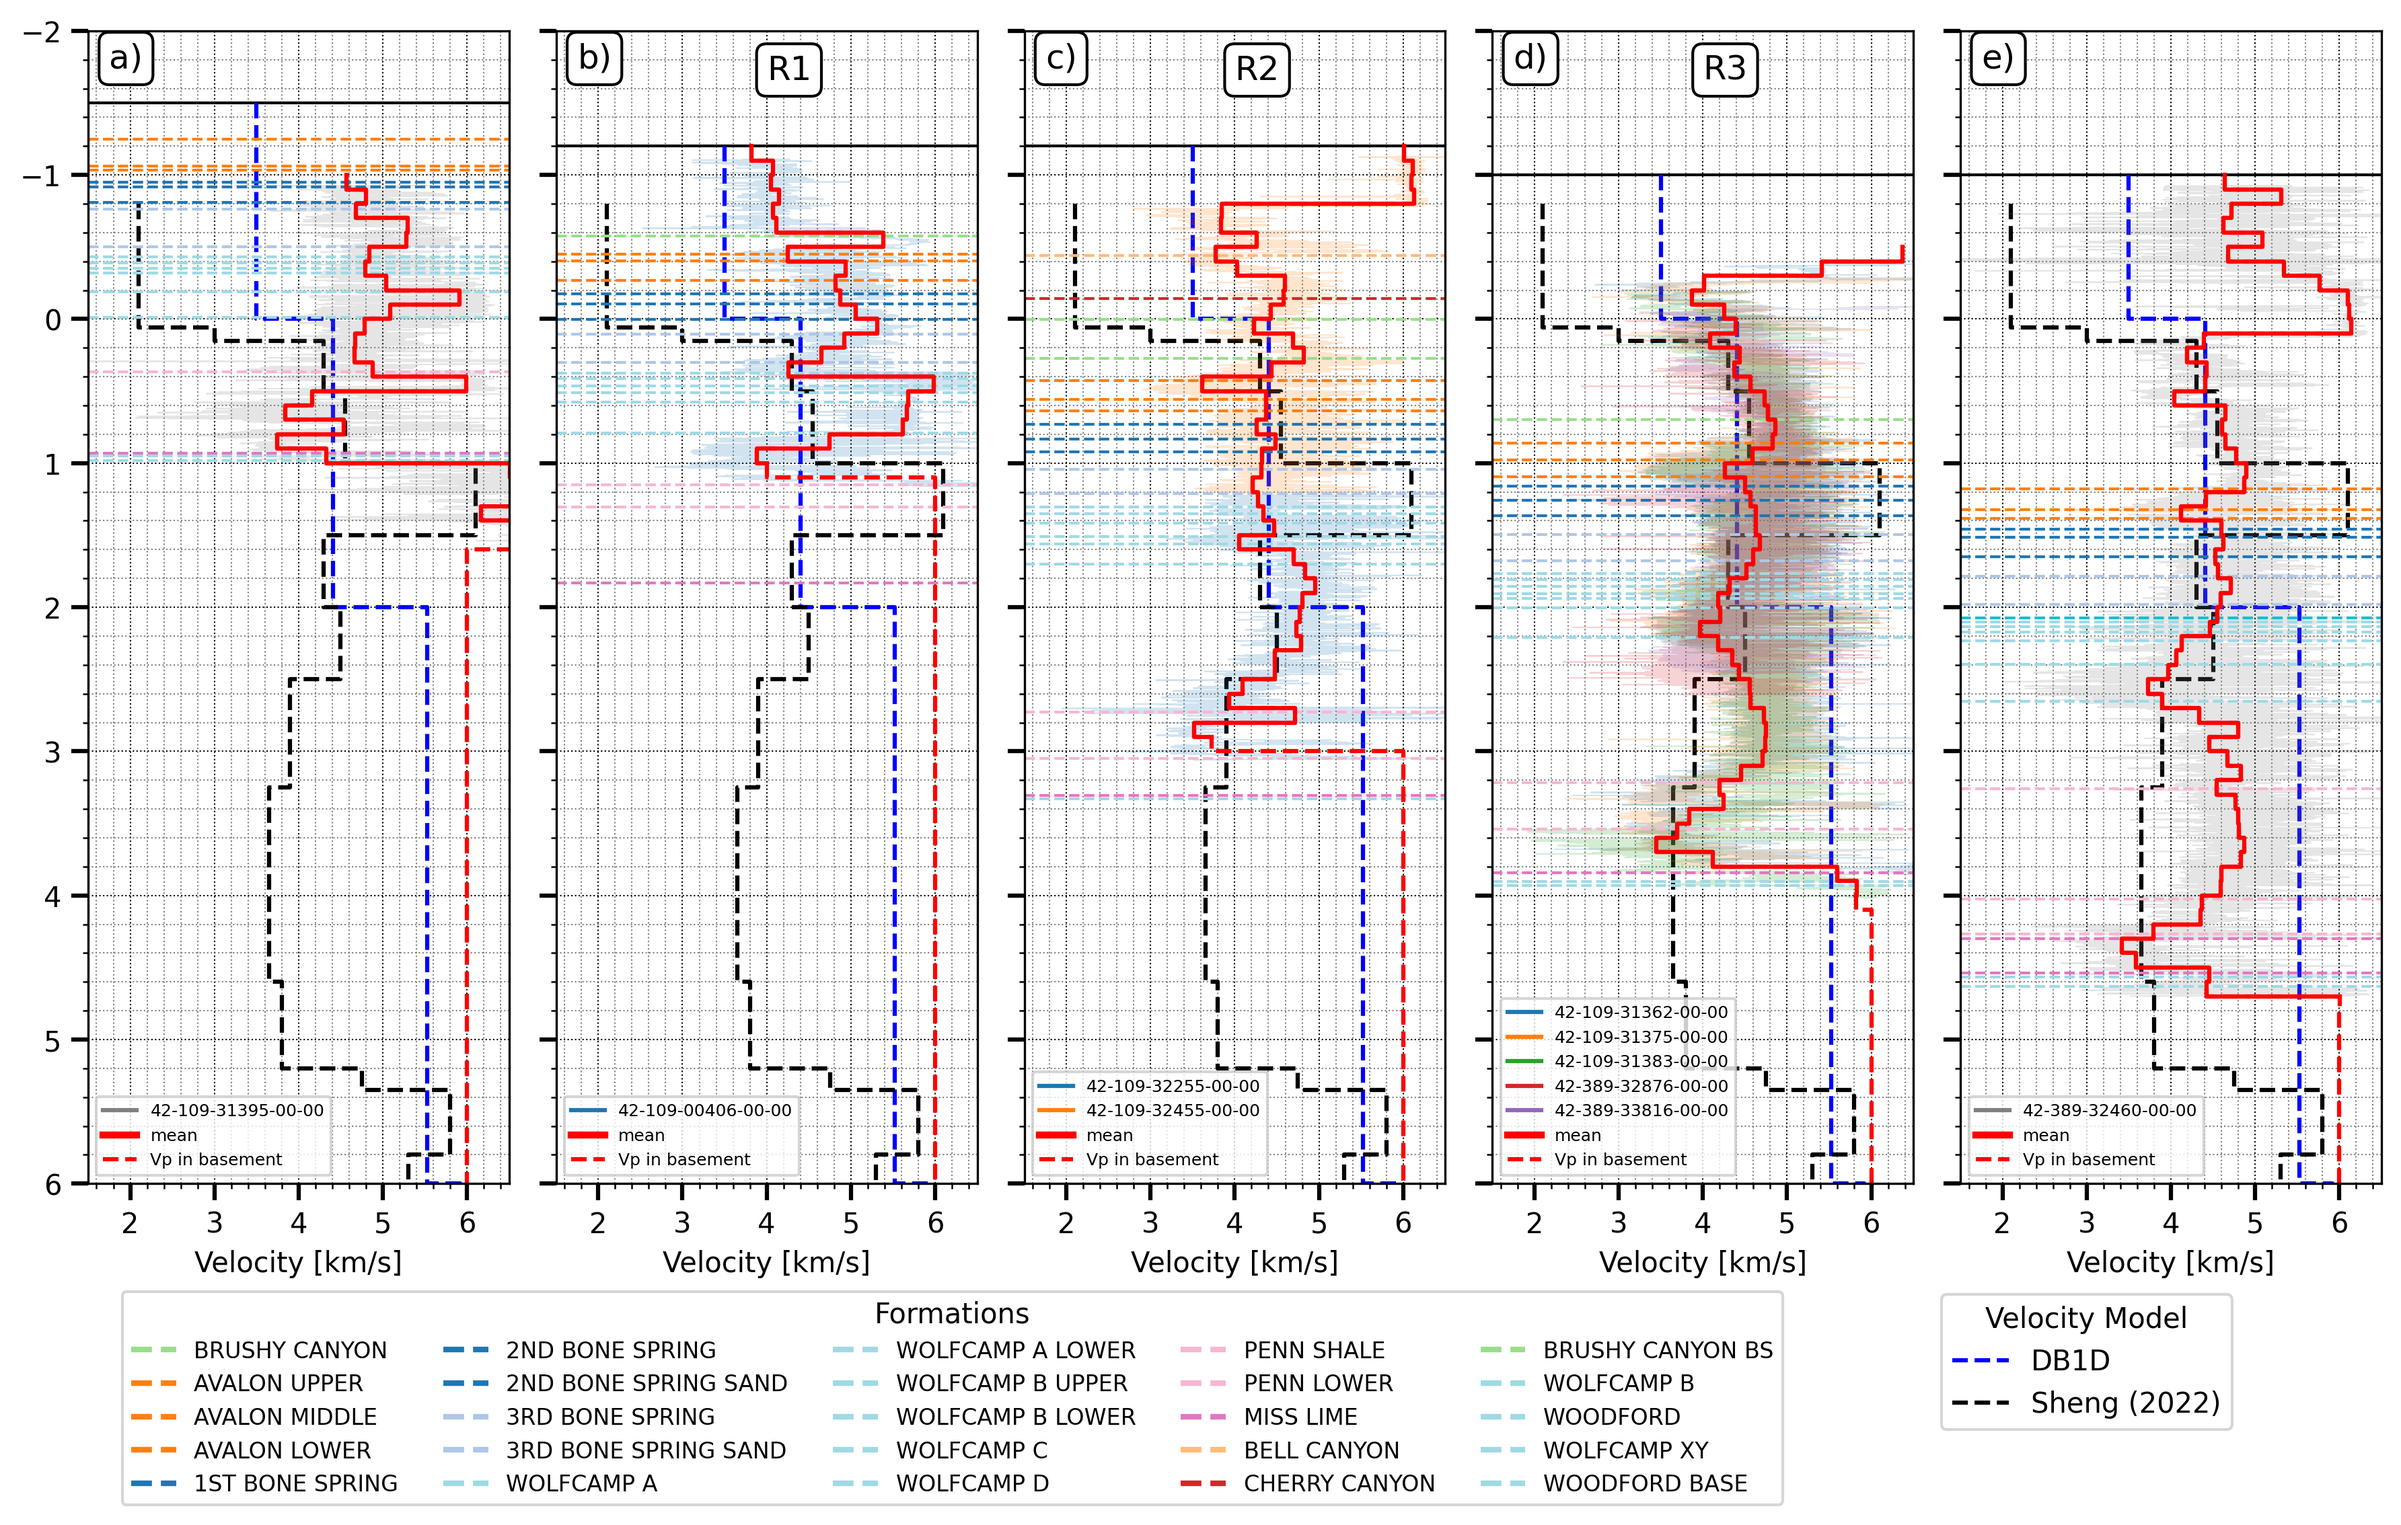
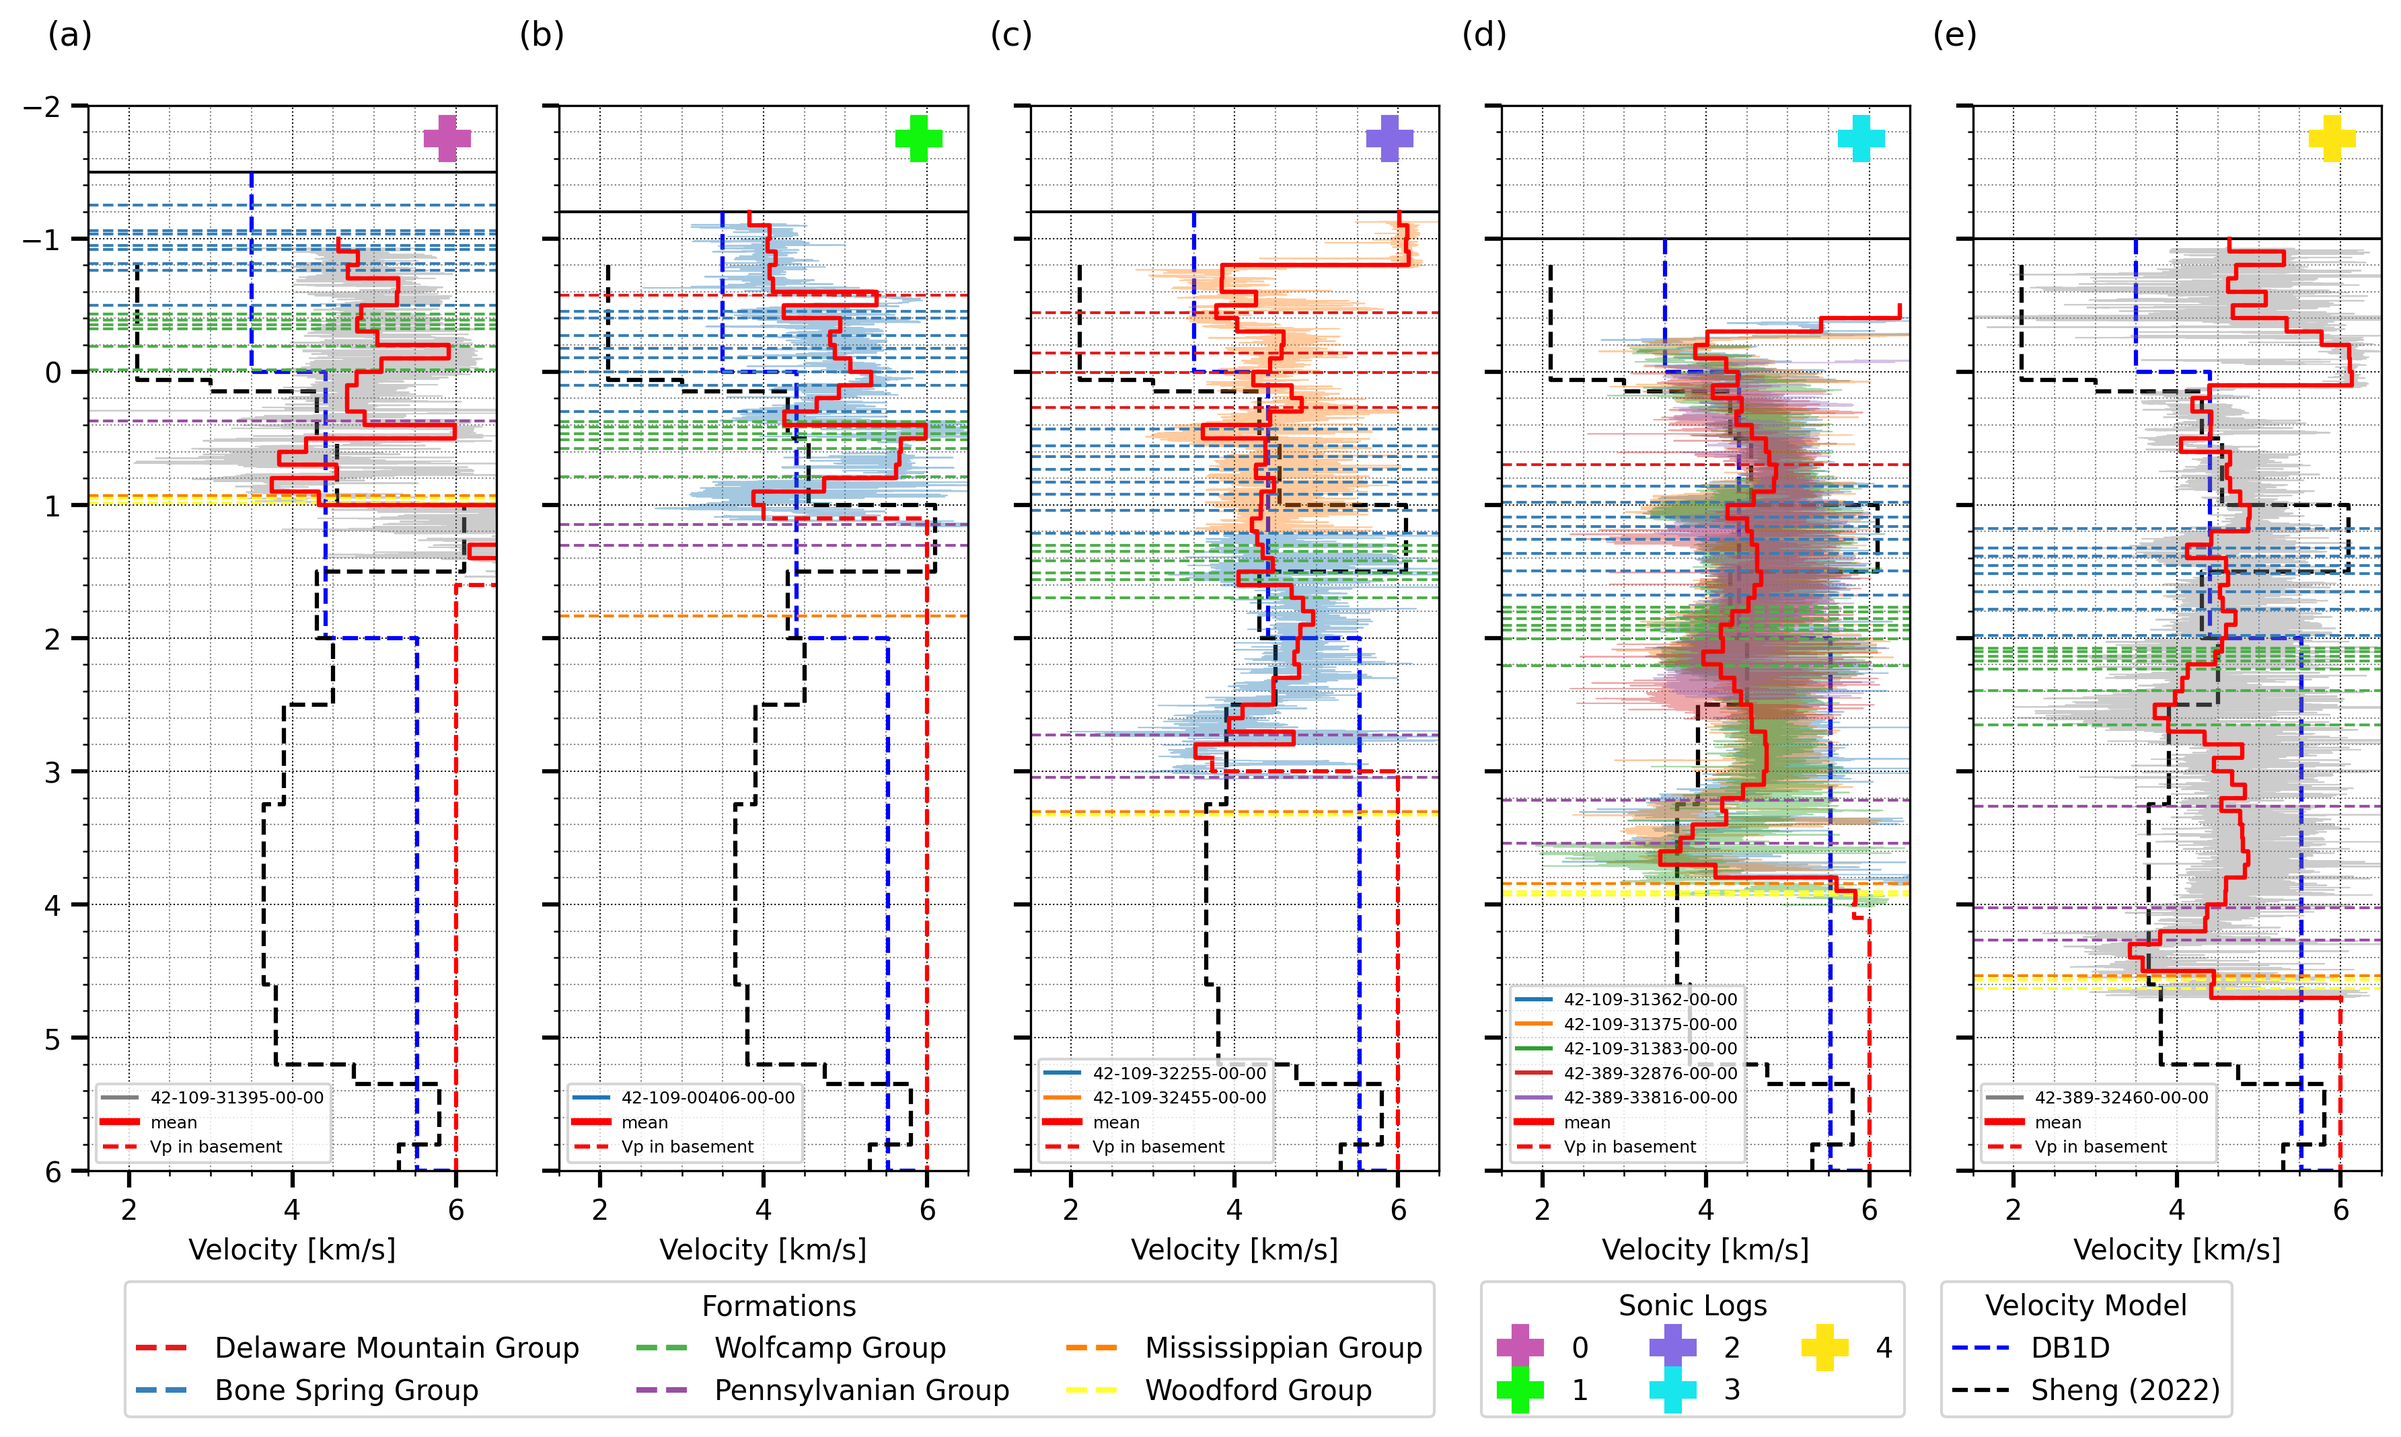
vp sonic log

diff --git a/02032024/project/vp/sonic_update.py b/02032024/project/vp/sonic_update.py
@@ -2,6 +2,7 @@ import pandas as pd
 import os
 import string
 import matplotlib.pyplot as plt
+from matplotlib import colors as mcolors
 from delaware.core.enverus import plot_velocity_logs,well_fig
 
 mydata = "/home/emmanuel/ecastillo/dev/delaware/10102024/data_git/enverus/EnverusData_AOI/wells_aoi_all.csv"
@@ -41,8 +42,8 @@ data1 = data[data["well_name"].isin(well_r1)]
 data2 = data[data["well_name"].isin(well_r2)]
 data3 = data[data["well_name"].isin(well_r3)]
 
-
-stratigraphy = {
+##################################stratigraphy
+strata = {
     "Delaware Mountain Group": [
         "Brushy Canyon",
         "Cherry Canyon",
@@ -80,7 +81,28 @@ stratigraphy = {
         "Woodford Base"
     ]
 }
+# Choose a better spaced colormap: Set1 + Dark2 (as fallback)
+set1 = plt.cm.get_cmap('Set1').colors  # 9 very distinct colors
+dark2 = plt.cm.get_cmap('Dark2').colors  # 8 darker distinct colors
+combined_colors = list(set1) + list(dark2)
+color_list = [mcolors.to_hex(c) for c in combined_colors]
 
+# New structure
+formation_dict = {}
+
+for i, (group, form) in enumerate(strata.items()):
+    color = color_list[i % len(color_list)]
+    for formation in form:
+        formation_lowercase = formation.lower()
+        formation_dict[formation_lowercase] = {
+            "data": group,
+            "color": color
+        }
+stratigraphy = formation_dict
+
+#####################################333
+# print(stratigraphy)
+# exit()
 
 fig, axes = plt.subplots(1, 5, 
                         sharey=True, 
@@ -94,15 +116,6 @@ for col in range(cols):  # Iterate over columns first
                     facecolor='white', 
                     alpha=1)
         text_loc = [0.05, 0.99]
-        # axes[col].text(text_loc[0], text_loc[1], 
-        #         f"{string.ascii_lowercase[n]})", 
-        #         horizontalalignment='left', 
-        #         verticalalignment="top", 
-        #         transform=axes[ col].transAxes, 
-        #         fontsize="large", 
-        #         fontweight="normal",
-        #         # bbox=box
-        #         )
         axes[col].annotate(f"({string.ascii_lowercase[n]})",
                            xy=(-0.1, 1.05),  # Outside top-left in axes coordinates
                            xycoords='axes fraction',
@@ -113,9 +126,12 @@ for col in range(cols):  # Iterate over columns first
         )
         n += 1
 
+text_loc2 = [5.9, -1.75]
+
 precision = 0.1
 ax_rl1,lg1_rl1,lg2_rl1 = well_fig(data_rl1,formations,form_rl1,
          ax=axes[0],
+        stratigraphy=stratigraphy,
          ylims=(-2,6),
          xlims=(1.5,6.5),
          data_color="gray",
@@ -123,8 +139,14 @@ ax_rl1,lg1_rl1,lg2_rl1 = well_fig(data_rl1,formations,form_rl1,
          smooth_interval=precision,
          
          )
+# exit()
+marker_0 = ax_rl1.plot(text_loc2[0], text_loc2[1],
+          marker='P', markersize=16,
+             linestyle='None', color='#c859b2',
+             label="0")
 
 ax_1,lg1_1,lg2_1 = well_fig(data1,formations,form_r1,
+         stratigraphy=stratigraphy,
          ax=axes[1],
          ylims=(-2,6),
          xlims=(1.5,6.5),
@@ -132,16 +154,14 @@ ax_1,lg1_1,lg2_1 = well_fig(data1,formations,form_r1,
          smooth_interval=precision,
          output_mean=os.path.join(output_folder_mean,"R1.csv")
          )
-text_loc2 = [0.05, 0.25]
-ax_1.text(text_loc2[0], text_loc2[1], 
-         "R1", 
-         horizontalalignment='left', 
-         verticalalignment="top", 
-         transform=ax_1.transAxes, 
-         fontsize="large", 
-         fontweight="normal",
-         bbox=box)
+
+marker_1 = ax_1.plot(text_loc2[0], text_loc2[1],
+          marker='P', markersize=16,
+             linestyle='None', color='#10f60d',
+             label="1")
+
 ax_2,lg1_2,lg2_2 = well_fig(data2,formations,form_r2,
+         stratigraphy=stratigraphy,
          ax=axes[2],
          ylims=(-2,6),
          xlims=(1.5,6.5),
@@ -149,16 +169,14 @@ ax_2,lg1_2,lg2_2 = well_fig(data2,formations,form_r2,
          smooth_interval=precision,
          output_mean=os.path.join(output_folder_mean,"R2.csv")
          )
-# ax_2.text(text_loc2[0], text_loc2[1], 
-#          "R2", 
-#          horizontalalignment='left', 
-#          verticalalignment="top", 
-#          transform=ax_2.transAxes, 
-#          fontsize="large", 
-#          fontweight="normal",
-#          bbox=box)
+marker_2 = ax_2.plot(text_loc2[0], text_loc2[1],
+          marker='P', markersize=16,
+             linestyle='None', color='#866ce4',
+             label="2")
+
 # print("R3")
 ax_3,lg1_3,lg2_3 = well_fig(data3,formations,form_r3,
+         stratigraphy=stratigraphy,
          ax=axes[3],
          ylims=(-2,6),
          xlims=(1.5,6.5),
@@ -166,15 +184,13 @@ ax_3,lg1_3,lg2_3 = well_fig(data3,formations,form_r3,
          smooth_interval=precision,
          output_mean=os.path.join(output_folder_mean,"R3.csv")
          )
-ax_3.text(text_loc2[0], text_loc2[1], 
-         "R3", 
-         horizontalalignment='left', 
-         verticalalignment="top", 
-         transform=ax_3.transAxes, 
-         fontsize="large", 
-         fontweight="normal",
-         bbox=box)
+marker_3 = ax_3.plot(text_loc2[0], text_loc2[1],
+          marker='P', markersize=16,
+             linestyle='None', color='#17e6ed',
+             label="3")
+
 ax_rr1,lg1_rr1,lg2_rr1 = well_fig(data_rr1,formations,form_rr1,
+         stratigraphy=stratigraphy,
          ax=axes[4],
          ylims=(-2,6),
          xlims=(1.5,6.5),
@@ -182,13 +198,27 @@ ax_rr1,lg1_rr1,lg2_rr1 = well_fig(data_rr1,formations,form_rr1,
          form_linestyle = "dashed",
          smooth_interval=precision,
          )
-
+marker_4 = ax_rr1.plot(text_loc2[0], text_loc2[1],
+          marker='P', markersize=16,
+             linestyle='None', color='#ffe415',
+             label="4")
 
 # Sort and add legend for formations.
 global_legend_handles = {k: v for d in [lg1_1,lg1_2,lg1_3] for k, v in d.items()}
+#ordering legends
+global_legend_handles = {k: global_legend_handles[k] for k in strata if k in global_legend_handles}
 fig.legend(handles=list(global_legend_handles.values()), 
            loc="upper left",title="Formations",
-           fontsize=8, ncol=5, bbox_to_anchor=(0.05, 0.2))
+           fontsize=10, ncol=3, bbox_to_anchor=(0.05, 0.2))
+
+
+log_handles = [marker_0[0],marker_1[0], marker_2[0], marker_3[0], marker_4[0]]
+labels = ['0', '1','2','3','4']
+fig.legend(handles=log_handles, loc="upper left", 
+           labels=labels,
+           title="Sonic Logs",
+           fontsize=10, ncol=3, bbox_to_anchor=(0.61, 0.2))
+
 # Add velocity model legend to the figure.
 fig.legend(handles=lg2_3, loc="upper left", 
            title="Velocity Model",

diff --git a/10102024/delaware/core/enverus.py b/10102024/delaware/core/enverus.py
@@ -786,6 +786,7 @@ def well_fig(df,formations,
              ax,
              depth="Depth[km]",
     vel="Vp[km/s]",
+    stratigraphy=None,
     formations_key_order=None,
     form_linestyle="--",
     data_color=None,
@@ -872,7 +873,7 @@ def well_fig(df,formations,
                 single_data[depth],
                 # color="gray",
                 color=color,
-                alpha=0.2,linewidth=0.5,
+                alpha=0.4,linewidth=0.5,
                 # label=well_name
                 )
         
@@ -911,28 +912,43 @@ def well_fig(df,formations,
     global_legend_handles = {}
     # Plot formation boundaries for the well.
     if formations is not None:
-        
-        global_formation_colors = assign_global_colors(formations["FormationName"].drop_duplicates())
-        if formations_key_order is None:
-            formations_key_order = "FormationName"
-        formations_order = formations.copy().drop_duplicates("FormationName")
-        formations_order = formations_order.sort_values(formations_key_order, ignore_index=True)
-        formations_order = formations_order["FormationName"].tolist()
-        
-        single_formation = formations[formations["API_UWI_12"] == formation_well_name[:-3]]
-        single_formation = single_formation.sort_values("TVD_Top", ignore_index=True)
-        
-        for _, f in single_formation.iterrows():
-            depth_f = (f["TVD_Top"] * 0.0003048) + elevation_km
-            formation_name = f["FormationName"]
-            color = global_formation_colors.get(formation_name, "gray")
-            ax.axhline(y=depth_f, color=color, linestyle=form_linestyle, linewidth=1)
+        if stratigraphy is None:
+            print("No stratigraphy attribute")
+        else:
+            # global_formation_colors = assign_global_colors(formations["FormationName"].drop_duplicates())
+            if formations_key_order is None:
+                formations_key_order = "FormationName"
+            formations_order = formations.copy().drop_duplicates("FormationName")
+            formations_order = formations_order.sort_values(formations_key_order, ignore_index=True)
+            formations_order = formations_order["FormationName"].tolist()
             
-            # Add the formation to the legend if not already present.
-            global_legend_handles[formation_name] = plt.Line2D([0], [0], color=color, lw=2,
-                                                               linestyle=form_linestyle, 
-                                                               label=formation_name)
-     
+            single_formation = formations[formations["API_UWI_12"] == formation_well_name[:-3]]
+            single_formation = single_formation.sort_values("TVD_Top", ignore_index=True)
+            
+            for _, f in single_formation.iterrows():
+                depth_f = (f["TVD_Top"] * 0.0003048) + elevation_km
+                formation_name = f["FormationName"]
+                
+                match = next((word for word in list(stratigraphy.keys()) if \
+                                word.lower() in formation_name.lower() or\
+                                formation_name.lower() in word.lower()), None)
+                
+                if match is None:
+                    print(f"No formation {formation_name} in your stratigraphy")
+                    continue
+                # else:
+                #     print(formation_name,match,f'color {stratigraphy[match]["color"]}')
+                
+                # color = global_formation_colors.get(formation_name, "gray")
+                global_name = stratigraphy[match]["data"]
+                color = stratigraphy[match]["color"]
+                ax.axhline(y=depth_f, color=color, linestyle=form_linestyle, linewidth=1)
+                
+                # Add the formation to the legend if not already present.
+                global_legend_handles[global_name] = plt.Line2D([0], [0], color=color, lw=2,
+                                                                linestyle=form_linestyle, 
+                                                                label=global_name)
+        
      
     if mean:
         # Define common depth bins (from min to max depth across all wells)
